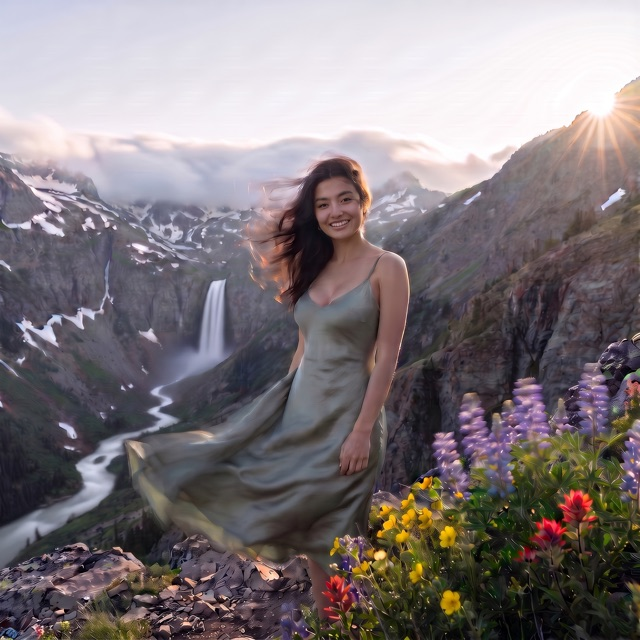
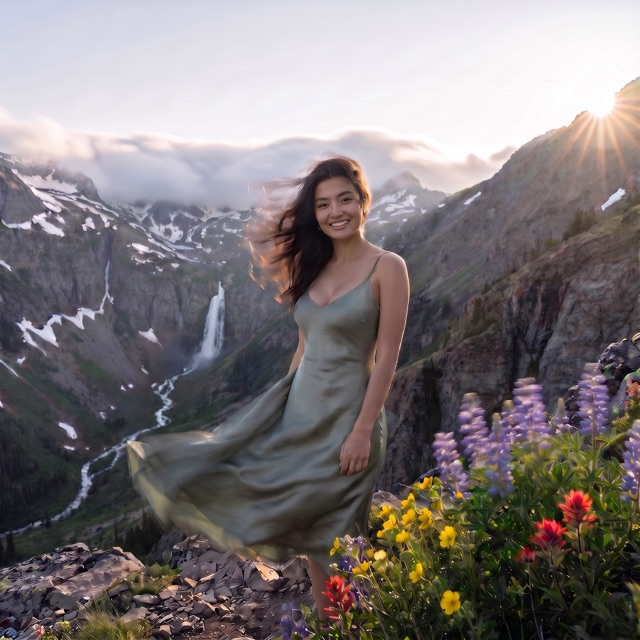
Squashed commit of the following:
commit 506ad93c80e81e035963dbedff6dfd80e3176234
Author: Matthias Brusdeylins <13226362+Brusdeylins@users.noreply.github.com>
Date:   Mon Nov 16 11:41:18 2026 +0100

    IMPROVEMENT: make shutter examples physically correct with constant waterfall outline and blur only

diff --git a/tools/camera-examples/Waterfall.java b/tools/camera-examples/Waterfall.java
@@ -1,0 +1,189 @@
+import java.awt.image.BufferedImage;
+import java.io.File;
+import javax.imageio.ImageIO;
+
+/*  Puts the waterfall and river of the base photo (F2) into a stage image and renders the shutter physically:
+    the outline stays, fast shutter thins the water into crisp jets, slow shutter smears it only along the fall  */
+public class Waterfall {
+    static final int FX0 = 560, FX1 = 790, FY0 = 850, FY1 = 1230;
+    static final int RX0 = 430, RX1 = 720, RY0 = 1120, RY1 = 1400;
+    static final int FEATHER = 40;
+
+    public static void main(String[] args) throws Exception {
+        BufferedImage base = ImageIO.read(new File(args[0]));
+        BufferedImage stage = ImageIO.read(new File(args[1]));
+        String mode = args[2];
+        int blur = args.length > 4 ? Integer.parseInt(args[4]) : 0;
+        float[][][] src = rgb(base);
+        float[][][] fall = src;
+        float[][] alpha = null;
+        if (mode.equals("frozen")) {
+
+            /*  thin and sharpen only the water and a few px around it, so the rock keeps its texture  */
+            fall = sharpen(thin(src));
+            int hh = src.length, ww = src[0].length;
+            alpha = new float[hh][ww];
+            for (int y = FY0; y < FY1; y++)
+                for (int x = FX0; x < FX1; x++) {
+                    float best = 0;
+                    for (int dy = -3; dy <= 3; dy++)
+                        for (int dx = -3; dx <= 3; dx++) {
+                            float[] p = src[Math.max(0, Math.min(hh - 1, y + dy))][Math.max(0, Math.min(ww - 1, x + dx))];
+                            float lum = 0.3f * p[0] + 0.59f * p[1] + 0.11f * p[2];
+                            best = Math.max(best, Math.max(0, Math.min(1, (lum - 120) / 60)));
+                        }
+                    alpha[y][x] = best;
+                }
+        }
+        else if (mode.equals("blur")) {
+
+            /*  only the bright water streaks, normalized so it keeps its color; the rock behind stays as it is  */
+            int hh = src.length, ww = src[0].length;
+            float[][] m = new float[hh][ww];
+            float[][][] wm = new float[hh][ww][3];
+            for (int y = FY0; y < FY1; y++)
+                for (int x = FX0; x < FX1; x++) {
+                    float lum = 0.3f * src[y][x][0] + 0.59f * src[y][x][1] + 0.11f * src[y][x][2];
+                    m[y][x] = Math.max(0, Math.min(1, (lum - 120) / 60));
+                    for (int k = 0; k < 3; k++)
+                        wm[y][x][k] = src[y][x][k] * m[y][x];
+                }
+            float[][] bm = vblur1(m, blur);
+            float[][][] bw = new float[hh][ww][3];
+            for (int k = 0; k < 3; k++) {
+                float[][] ch = new float[hh][ww];
+                for (int y = 0; y < hh; y++)
+                    for (int x = 0; x < ww; x++)
+                        ch[y][x] = wm[y][x][k];
+                float[][] bc = vblur1(ch, blur);
+                for (int y = 0; y < hh; y++)
+                    for (int x = 0; x < ww; x++)
+                        bw[y][x][k] = bm[y][x] > 0.001f ? bc[y][x] / bm[y][x] : src[y][x][k];
+            }
+            alpha = new float[hh][ww];
+            for (int x = FX0; x < FX1; x++) {
+                int top = FY1;
+                for (int y = FY0; y < FY1; y++)
+                    if (m[y][x] > 0.5f) { top = y; break; }
+                for (int y = top; y < FY1; y++)
+                    alpha[y][x] = Math.min(1, Math.max(bm[y][x], m[y][x]));
+            }
+            fall = bw;
+        }
+        int w = stage.getWidth();
+        int h = stage.getHeight();
+        BufferedImage out = new BufferedImage(w, h, BufferedImage.TYPE_INT_RGB);
+        for (int y = 0; y < h; y++)
+            for (int x = 0; x < w; x++) {
+                int s = stage.getRGB(x, y);
+                double[] c = { (s >> 16) & 0xff, (s >> 8) & 0xff, s & 0xff };
+                double mf = mask(x, y, FX0, FX1, FY0, FY1);
+                double mr = mask(x, y, RX0, RX1, RY0, RY1);
+                double a = alpha == null ? 1 : alpha[y][x];
+                for (int k = 0; k < 3; k++) {
+                    c[k] = c[k] * (1 - Math.max(mr, mf)) + src[y][x][k] * Math.max(mr, mf);
+                    c[k] = c[k] * (1 - mf * a) + fall[y][x][k] * mf * a;
+                }
+                out.setRGB(x, y, (clamp(c[0]) << 16) | (clamp(c[1]) << 8) | clamp(c[2]));
+            }
+        ImageIO.write(out, "png", new File(args[3]));
+    }
+
+    static double mask(int x, int y, int x0, int x1, int y0, int y1) {
+        double dx = Math.min(x - x0, x1 - x), dy = Math.min(y - y0, y1 - y);
+        double d = Math.min(dx, dy);
+        return d <= 0 ? 0 : Math.min(1, d / FEATHER);
+    }
+
+    static int clamp(double v) {
+        return (int) Math.max(0, Math.min(255, Math.round(v)));
+    }
+
+    static float[][][] rgb(BufferedImage img) {
+        float[][][] a = new float[img.getHeight()][img.getWidth()][3];
+        for (int y = 0; y < img.getHeight(); y++)
+            for (int x = 0; x < img.getWidth(); x++) {
+                int p = img.getRGB(x, y);
+                a[y][x][0] = (p >> 16) & 0xff;
+                a[y][x][1] = (p >> 8) & 0xff;
+                a[y][x][2] = p & 0xff;
+            }
+        return a;
+    }
+
+    /*  box blur along y of one channel inside the waterfall box  */
+    static float[][] vblur1(float[][] a, int len) {
+        int h = a.length, w = a[0].length;
+        float[][] b = new float[h][w];
+        for (int x = FX0; x < FX1; x++)
+            for (int y = FY0; y < FY1; y++) {
+                float sum = 0;
+                int n = 0;
+                for (int t = -len / 2; t <= len / 2; t++) {
+                    int yy = y + t;
+                    if (yy < FY0 || yy >= FY1)
+                        continue;
+                    sum += a[yy][x];
+                    n++;
+                }
+                b[y][x] = sum / n;
+            }
+        return b;
+    }
+
+    /*  box blur along y only: water streaks along its fall, the outline keeps its width  */
+    static float[][][] vertical(float[][][] a, int len) {
+        int h = a.length, w = a[0].length;
+        float[][][] b = new float[h][w][3];
+        for (int x = 0; x < w; x++)
+            for (int y = 0; y < h; y++)
+                for (int k = 0; k < 3; k++) {
+                    float sum = 0;
+                    int n = 0;
+                    for (int t = -len / 2; t <= len / 2; t++) {
+                        int yy = y + t;
+                        if (yy < FY0 || yy >= FY1)
+                            continue;
+                        sum += a[yy][x][k];
+                        n++;
+                    }
+                    b[y][x][k] = n > 0 ? sum / n : a[y][x][k];
+                }
+        return b;
+    }
+
+    /*  local minimum over 3x1 px: bright water loses its soft fringe, dark gaps between jets open up  */
+    static float[][][] thin(float[][][] a) {
+        int h = a.length, w = a[0].length;
+        float[][][] b = new float[h][w][3];
+        for (int y = 0; y < h; y++)
+            for (int x = 0; x < w; x++)
+                for (int k = 0; k < 3; k++) {
+                    float m = a[y][x][k];
+                    for (int t = -2; t <= 2; t++)
+                        m = Math.min(m, a[y][Math.max(0, Math.min(w - 1, x + t))][k]);
+                    b[y][x][k] = 0.65f * m + 0.35f * a[y][x][k];
+                }
+        return b;
+    }
+
+    /*  unsharp mask: crisper edges of the jets  */
+    static float[][][] sharpen(float[][][] a) {
+        int h = a.length, w = a[0].length;
+        float[][][] b = new float[h][w][3];
+        for (int y = 0; y < h; y++)
+            for (int x = 0; x < w; x++)
+                for (int k = 0; k < 3; k++) {
+                    float sum = 0;
+                    int n = 0;
+                    for (int dy = -2; dy <= 2; dy++)
+                        for (int dx = -2; dx <= 2; dx++) {
+                            int yy = Math.max(0, Math.min(h - 1, y + dy)), xx = Math.max(0, Math.min(w - 1, x + dx));
+                            sum += a[yy][xx][k];
+                            n++;
+                        }
+                    b[y][x][k] = a[y][x][k] + 2.4f * (a[y][x][k] - sum / n);
+                }
+        return b;
+    }
+}

diff --git a/src/main/java/art/moodframe/service/CameraPromptBuilder.java b/src/main/java/art/moodframe/service/CameraPromptBuilder.java
@@ -131,9 +131,9 @@ public final class CameraPromptBuilder {
             Shutter.MOTION_BLUR, "a slow shutter of about 1/15 s: everything that moves, such as hair, fabric, water, "
                     + "leaves, people or vehicles, if present, smeared into long, clearly visible streaks; static "
                     + "parts sharp",
-            Shutter.LONG_EXPOSURE, "a 5-second exposure of exactly this scene, nothing added: whatever moves, such as "
-                    + "hair, fabric or leaves, smeared strongly; water a silky veil, walkers ghosts, vehicles light "
-                    + "trails; still parts sharp");
+            Shutter.LONG_EXPOSURE, "a 5-second exposure of exactly this scene, nothing added: hair, fabric or leaves "
+                    + "in wind smeared; water a silky veil, walkers ghosts, cars light trails; people standing still "
+                    + "and static parts sharp");
 
     private static final Map<Iso, String> ISOS = Map.of(
             Iso.ISO_100, "ISO 100: the finest grain or noise, barely visible, a clean, smooth image with the most "

diff --git a/tools/camera-examples/notes.md b/tools/camera-examples/notes.md
@@ -37,3 +37,5 @@
 - shot-EXTREME_WIDE: user expected a different (wider) background; e67d70e5 shrunk to 50 % and outpainted -> 04f34d0f. Conflict tests: 14mm+CLOSE_UP 144a4847, 135mm+EXTREME_WIDE d3987723 (diptych!)
 - shutter waterfall graded (user 2026-11-16): FROZEN 3b9ef40f crisp jets, NORMAL F2, MOTION_BLUR 83f68bff streaks, LONG_EXPOSURE cde6cbe1 silky veil
 - shutter-FROZEN: 3b9ef40f had giant drops (user: proportions); distant waterfall cannot show single drops -> 0ca1555b crisp ribbons
+- shutter waterfall v2 (user: outline and river must not change, only blur; frozen thinner/crisper): F2 waterfall+river pasted into each stage image, Waterfall.java: frozen = thin+sharpen, MB = vertical blur 25 px of the water pixels only, LE = 90 px; river unchanged
+- shutter-FROZEN v3: stronger thin (5 px min) + sharpen 2.4, only on water pixels (luminance mask dilated 3 px)
